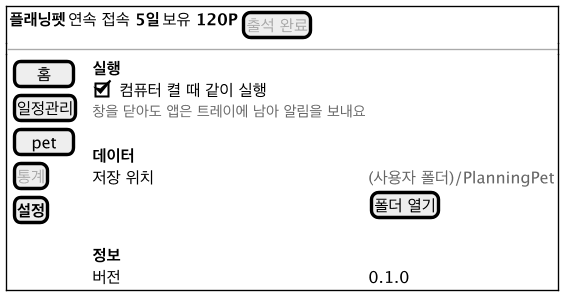
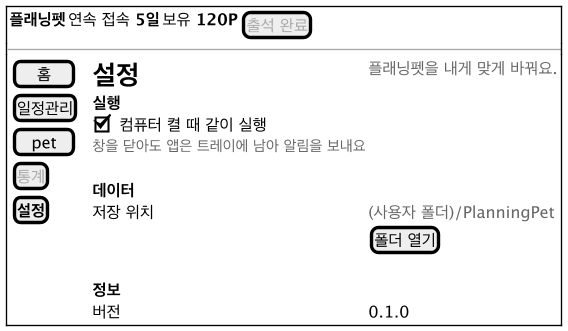
docs: 검토에서 나온 D-33~D-36 어긋남 고침(01 요구사항, UC-08, 16번 수 세기, 디자인 시스템 색, 와이어프레임) (#51)

Changed region(s): [[0.0, 0.0, 0.9929, 0.7576], [0.6319, 0.5758, 0.9929, 0.7879], [0.0, 0.8182, 0.9929, 1.0]]

diff --git a/docs/06-functions.md b/docs/06-functions.md
@@ -179,7 +179,7 @@
 - **쓰는 곳**: UC-08
 - **입력**: 끝낸 할 일, 오늘
 - **오류**: 끝내지 않은 할 일이면 `IllegalStateException`
-- **하는 일**: 할 일의 보상만큼 포인트와 경험치를 뺀다. 포인트는 음수가 될 수 있다. `rewardDay`가 오늘이면 오늘 횟수를 하나 줄인다. 할 일의 `done`을 false로, 보상을 0으로, `rewardDay`를 null로 한다(D-19). 레벨은 경험치에서 다시 계산되므로 내려갈 수 있고 연출은 없다.
+- **하는 일**: 할 일의 보상만큼 포인트와 경험치를 뺀다. 포인트는 음수가 될 수 있다. `rewardDay`가 오늘이면 오늘 횟수를 하나 줄인다. 할 일의 `done`을 false로, 보상을 0으로, `rewardDay`를 null로 한다(D-19). 레벨은 경험치에서 다시 계산되므로 내려갈 수 있고, 말풍선 문장(16번 `UNCOMPLETED`) 말고 다른 연출은 없다.
 
 | 검사 | 처음 상태 | 하는 것 | 결과 |
 |---|---|---|---|
@@ -193,7 +193,7 @@
 
 누적 경험치에서 레벨과 다음 레벨까지의 진행을 구한다.
 
-- **쓰는 곳**: UC-07, UC-08, UC-14 (pet 화면의 레벨과 경험치 막대)
+- **쓰는 곳**: UC-07, UC-08, UC-14 (pet 화면의 레벨과 경험치 막대, 메인 아래 카드의 레벨 막대)
 - **입력**: 누적 경험치(0 이상)
 - **출력**: 레벨(1~10), 모습 단계(1~3), 레벨 안에서 모은 경험치, 다음 레벨까지의 폭. 레벨 10이면 폭은 0이고 막대는 가득 차며 "최고 레벨"을 보인다.
 - **하는 일**: 기준표 0, 50, 130, 240, 380, 550, 750, 990, 1270, 1600에서 경험치보다 크지 않은 가장 큰 기준의 레벨을 고른다(D-20). pet 화면은 "경험치 {레벨 안에서 모은 값} / {폭}"으로 보인다.
@@ -244,7 +244,7 @@
 성취도 막대가 보일 값을 구한다.
 
 - **쓰는 곳**: UC-01, UC-07, UC-08 (메인 성취도 막대)
-- **출력**: 오늘 할 일 수, 그중 끝낸 수. 할 일이 없으면 비어 있음.
+- **출력**: 오늘 일정 수(할 일과 고정 일정), 그중 끝낸 수. 하나도 없으면 비어 있음.
 - **하는 일**: 날짜가 오늘인 할 일과 고정 일정을 센다(D-22, D-35). 고른 날짜는 받지 않는다. 고양이는 막대 왼쪽 끝에서 `끝낸 수 / 할 일 수`만큼 간 자리에 있다. 비어 있으면 왼쪽 끝에 앉아 있다.
 
 | 검사 | 처음 상태 | 하는 것 | 결과 |
@@ -320,7 +320,7 @@
 | `PET_ROOM` | pet 화면을 엶 | "오늘 {13번의 끝낸 수}개 끝냈어." 0개면 "오늘은 아직 끝낸 일이 없어." |
 | `BOUGHT` | 아이템을 삼 | "{아이템} 고마워!" |
 
-완료 하나가 여러 상황에 해당하면 `STAGE_UP`, `LEVEL_UP`, `CAPPED`, `ALL_DONE`, `COMPLETED` 순으로 앞의 것 하나만 말한다. 완료 취소에는 `UNCOMPLETED`를 말한다.
+완료 하나가 여러 상황에 해당하면 `STAGE_UP`, `LEVEL_UP`, `CAPPED`, `ALL_DONE`, `COMPLETED` 순으로 앞의 것 하나만 말한다. 완료 취소에는 `UNCOMPLETED`를 말한다. `OTHER_DATE`와 `WELCOME_BACK`의 수도 고정 일정을 센다(D-35).
 
 | 검사 | 처음 상태 | 하는 것 | 결과 |
 |---|---|---|---|
@@ -332,6 +332,7 @@
 | T-TALK-6 | 오늘 남은 할 일 1개, 레벨 그대로 | 완료 | `ALL_DONE` 문장 |
 | T-TALK-7 | 11-16에 10P를 받은 할 일, 경험치 55(레벨 2) | 완료 취소 | "체크를 풀었어. -10P, 이제 Lv.1" |
 | T-TALK-8 | 상한에 걸려 보상 0인 끝낸 할 일 | 완료 취소 | "체크를 풀었어." |
+| T-TALK-9 | 오늘 11-14, 11-16에 고정 일정만 둘 | 메인에서 11-16을 고름(`OTHER_DATE`) | "11월 16일 할 일은 2개야." |
 
 ## 17. `List<Reminder> Reminders.due(TaskBook book, LocalDateTime now, Set<ReminderKey> sent)`
 
@@ -437,7 +438,7 @@
 
 - **쓰는 곳**: 데이터를 바꾸는 모든 유스케이스(UC-02~UC-08, UC-11, UC-15~UC-17)
 - **입력**: 저장 실패 창에 보일 이름(예: "할 일 완료"), 변경
-- **하는 일**: 데이터의 복사본을 떠 두고 변경을 적용한 뒤 21번 `save`를 한 번 부른다. 실패하면 복사본으로 되돌리고 오류 창(제목 "저장하지 못했어요", 내용 "{what} 저장에 실패해서 바꾸기 전으로 돌렸어요.")을 띄운다. 일정 입력 창은 이때 닫지 않고 입력값을 남긴다. 저장에 성공하든 되돌리든 마지막에 데이터 변경 알림을 한 번 보낸다. 데이터를 보이는 모든 부품(위 막대, 달력, 할 일 목록, 성취도 막대와 그 위의 펫, 레벨 막대, 시간표, 일정관리의 펫, pet 방)은 이 알림을 받아 다시 그린다. 알림을 받지 않는 부품이 있으면 그 부품만 옛 값으로 남는다.
+- **하는 일**: 데이터의 복사본을 떠 두고 변경을 적용한 뒤 21번 `save`를 한 번 부른다. 실패하면 복사본으로 되돌리고 오류 창(제목 "저장하지 못했어요", 내용 "{what} 저장에 실패해서 바꾸기 전으로 돌렸어요.")을 띄운다. 일정 입력 창은 이때 닫지 않고 입력값을 남긴다. 저장에 성공하든 되돌리든 마지막에 데이터 변경 알림을 한 번 보낸다. 데이터를 보이는 모든 부품(위 막대, 달력, 할 일 목록, 성취도 막대와 그 위의 펫, 레벨 막대, 시간표, 일정관리 오른쪽 목록, 꾸미기 진행도, 일정관리의 펫, pet 방)은 이 알림을 받아 다시 그린다. 알림을 받지 않는 부품이 있으면 그 부품만 옛 값으로 남는다.
 
 | 검사 | 처음 상태 | 하는 것 | 결과 |
 |---|---|---|---|

diff --git a/docs/decisions.md b/docs/decisions.md
@@ -38,5 +38,5 @@
 | D-32 | 2026-11-16 | 메인 하루 시간표(D-31)의 시각 칸을 누르면 그 칸 아래에 시각 고치기 창이 떠서 시작 시각과 걸리는 시간만 고친다. 시각 없는 할 일은 시각 칸에 "시간 정하기"를 보이고 같은 창에서 시간을 정한다. 시각 있는 할 일은 "시간 빼기"로 시각 없는 할 일로 돌린다. 고정 일정도 시각을 고칠 수 있지만 뺄 수는 없다(D-16). 반복 사본은 고친 하나만 바뀌고, 보상은 그대로다(D-18). D-12에서 목록 줄에 시간을 고치는 부품을 두지 않기로 한 판단은 이 결정으로 바꾼다 | 하루 시간표를 보며 시간을 옮기는 일이 잦은데 일정 입력 창은 제목, 날짜, 메모까지 보여 흐름이 끊긴다(05 원칙 2). 시간이 정해진 일과 안 정해진 일 모두 메인에서 바로 바꿀 수 있어야 한다(Model 담당 요청) | 없음 |
 | D-33 | 2026-11-16 | `planning-pet`에 있던 기능 아홉 가지를 넣는다. 일정관리 시간표의 할 일 블록에 체크박스를 둔다. 메모가 있는 할 일은 제목 옆에 흐린 "메모"를 보이고 마우스를 올리면 메모를 보인다. 메인 달력 칸에 그날 첫 할 일 제목을 보이고 점은 이것으로 바꾼다(06의 26번). 메인 아래 카드에 레벨과 경험치 막대를 둔다. pet 화면과 상점 창에 포인트 얻는 법을 보인다. pet 화면에 꾸미기 진행도(산 아이템 수 / 8)를 보인다. 목록이 비면 안내 문장을 보인다. 화면마다 위에 제목과 부제를 둔다. 할 일 목록 줄마다 수정, 삭제 버튼을 둔다 | 체크, 메모, 수정과 삭제를 하려면 화면을 옮기거나 숨은 동작(두 번 누르기, 오른쪽 버튼)을 알아야 했다. 보상 규칙과 꾸미기 목표가 화면에 없어서 무엇을 위해 모으는지 알기 어려웠다. `planning-pet`에서 쓰기 편했던 것을 가져온다(Model 담당 요청) | 없음 |
 | D-34 | 2026-11-16 | 메인의 펫 말풍선은 성취도 막대 위 펫 바로 위에 뜨고 꼬리가 펫을 가리킨다. 펫이 걸어가면 말풍선도 같이 옮겨 간다. 막대 양 끝에서는 말풍선이 카드 밖으로 나가지 않게 말풍선만 안쪽으로 맞추고 꼬리는 펫을 가리킨다. 긴 문장은 너비 380에서 줄을 바꾼다 | 말을 하는 것이 펫인데 말풍선이 펫과 떨어져 있으면 누가 말하는지 알기 어렵고, 펫이 걸어가도 말풍선이 제자리에 있어 둘이 따로 논다(Model 담당 지적) | 없음 |
-| D-35 | 2026-11-16 | 고정 일정도 체크할 수 있다. 체크와 보상(10P, 경험치 10, 하루 20번 상한), 완료 취소는 할 일과 같고, 성취도 막대와 브리핑의 남은 수, pet 화면의 끝낸 수에도 들어간다. 달력 칸의 첫 할 일 제목, "어제 못 끝낸 일", 마감이 가까운 일, 자동 배치, 시간 빼기는 지금처럼 할 일만 다룬다. D-16의 "체크와 보상이 없다"와 D-31의 "체크, 보상, 성취도 막대, 브리핑의 할 일 수에 들어가지 않는다"를 이 결정으로 바꾼다 | 수업에 가는 것도 그날 해낸 일이다. 하루 시간표에 있는데 체크할 수 없는 줄이 섞이면 목록이 체크리스트로 읽히지 않는다(Model 담당 지적). 수업은 매주 되풀이되는 일이라 달력 칸과 마감 안내에 넣으면 할 일이 가려진다 | 없음 |
+| D-35 | 2026-11-16 | 고정 일정도 체크할 수 있다. 체크와 보상(10P, 경험치 10, 하루 20번 상한), 완료 취소는 할 일과 같고, 성취도 막대와 브리핑의 남은 수, pet 화면의 끝낸 수에도 들어간다. 달력 칸의 첫 할 일 제목, "어제 못 끝낸 일", 마감이 가까운 일, 자동 배치, 시간 빼기는 지금처럼 할 일만 다룬다. D-16의 "체크와 보상이 없다"와 D-31의 "고정 일정은 체크박스 없이 보인다", "체크, 보상, 성취도 막대, 브리핑의 할 일 수에 들어가지 않는다"를 이 결정으로 바꾼다 | 수업에 가는 것도 그날 해낸 일이다. 하루 시간표에 있는데 체크할 수 없는 줄이 섞이면 목록이 체크리스트로 읽히지 않는다(Model 담당 지적). 수업은 매주 되풀이되는 일이라 달력 칸과 마감 안내에 넣으면 할 일이 가려진다 | 없음 |
 | D-36 | 2026-11-16 | 완료를 취소하면 펫이 빠진 보상을 말한다. "체크를 풀었어. -10P", 레벨이 내려가면 ", 이제 Lv.{레벨}"을 붙이고, 상한에 걸려 보상이 없던 일이면 "체크를 풀었어."다(06의 16번 `UNCOMPLETED`) | 취소해도 말풍선이 "+10P"로 남으면 포인트가 늘어난 것으로 읽힌다(Model 담당 지적). 혼내는 말 없이 바뀐 값만 알린다 | 없음 |

diff --git a/docs/design-system.md b/docs/design-system.md
@@ -11,6 +11,7 @@
 | 이름 | 값 | 쓰는 곳 |
 |---|---|---|
 | `INK` | `#354656` | 모든 글자 |
+| `INK_DIM` | `#354656`, 알파 102 | 흐린 글자(보조 글, 끝낸 일, 비활성) |
 | `MINT` | `#4DB4A0` | 진행 막대, 고른 날짜의 테두리 |
 | `MINT_SELECTED` | `#7BDECB` | 고른 내비게이션 버튼 |
 | `MINT_SOFT` | `#C7F0E4` | 버튼 바탕(위는 흰색에서 이 색으로 세로 그라데이션), 할 일 블록 |
@@ -25,7 +26,7 @@
 | `DAY` | `#F2F9FD` | 달력 날짜 칸 |
 | `DAY_SELECTED` | `#8FE0CA` | 달력의 오늘 |
 | `SUNDAY`, `SATURDAY` | `#E55C64`, `#4C82DA` | 일요일, 토요일 글자. `SUNDAY`는 오류 글자에도 쓴다 |
-| `TASK_TEXT` | `#28977F` | 달력 칸 안의 일정 글자, 파란 점 대신 쓰는 점 |
+| `TASK_TEXT` | `#28977F` | 달력 칸 안의 첫 할 일 제목(끝내지 않은 일이 있는 날). 모두 끝낸 날은 `INK_DIM` |
 
 그림에서 뽑은 참고 색: 방 벽 `#FCD2B4`, 바닥 `#F8BA7E`, 하늘 `#C1E7FC`에서 `#EBF6FD`, 풀밭 `#CCEBC8`.
 
@@ -78,7 +79,7 @@
 
 원본 프로토타입에 없는 화면은 위의 값을 아래처럼 쓴다.
 
-- 달력의 오늘은 05의 노란 배경 대신 `DAY_SELECTED`, 고른 날짜는 굵은 글씨에 `MINT` 테두리다. 끝내지 않은 할 일 표시 점은 `TASK_TEXT`다.
+- 달력의 오늘은 05의 노란 배경 대신 `DAY_SELECTED`, 고른 날짜는 굵은 글씨에 `MINT` 테두리다. 날짜 아래 첫 할 일 제목은 끝내지 않은 일이 있으면 `TASK_TEXT`, 모두 끝냈으면 `INK_DIM`이다(D-33). 목록 줄과 시간표의 "고정" 표시는 `TRACK` 바탕에 `CARD_LINE` 테두리다(D-35).
 - 시간표의 고정 일정은 `TRACK` 바탕에 `CARD_LINE` 테두리, 할 일은 `MINT_SOFT` 바탕에 `MINT_LINE` 테두리, 끝낸 일은 `DAY` 바탕에 `CARD_LINE` 테두리, 흐린 글자와 취소선이다. 테두리가 있어서 같은 `DAY`로 칠한 오늘 칸에서도 블록이 보인다. 오늘 칸은 `DAY`로 칠한다.
 - 오류 글자와 모자란 포인트는 `SUNDAY`로 쓴다.
 

diff --git a/docs/05-ui-design.md b/docs/05-ui-design.md
@@ -89,7 +89,7 @@
 | 2 | 오늘 | `JButton` | 오늘이 들어 있는 주로 돌아간다 | 이미 이번 주면 아무 일도 없다 |
 | 3 | 자동 배치 | `JButton` | 누르면 자동 배치 결과 창을 연다 | 배치할 할 일이 없으면 비활성이다 |
 | 4 | 일정 추가 | `JButton` | 일정 입력 창을 연다. 날짜는 보이는 주에 오늘이 있으면 오늘, 없으면 그 주 월요일로 채운다(06의 14번) | 없음 |
-| 5 | 시간표 일정 | `paintComponent`로 그리는 `JComponent` | 할 일 블록의 체크박스를 누르면 끝내거나 취소한다. 두 번 누르면 일정 입력 창이 수정으로 열린다. 오른쪽 버튼은 메인 목록과 같은 메뉴다 | 저장에 실패하면 체크를 되돌리고 저장 실패 창을 띄운다 |
+| 5 | 시간표 일정 | `paintComponent`로 그리는 `JComponent` | 블록의 체크박스를 누르면(왼쪽 버튼 한 번) 끝내거나 취소한다. 두 번 누르면 일정 입력 창이 수정으로 열린다. 오른쪽 버튼은 메인 목록과 같은 메뉴다 | 저장에 실패하면 체크를 되돌리고 저장 실패 창을 띄운다 |
 | 6 | 시각 없는 할 일 | `JList`와 `JCheckBox` | 메인 할 일 목록과 같다 | 메인 4번과 같다 |
 
 ## 일정 입력 창
